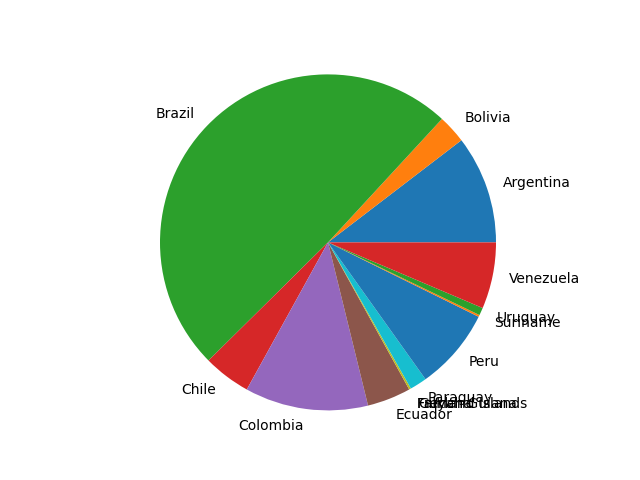
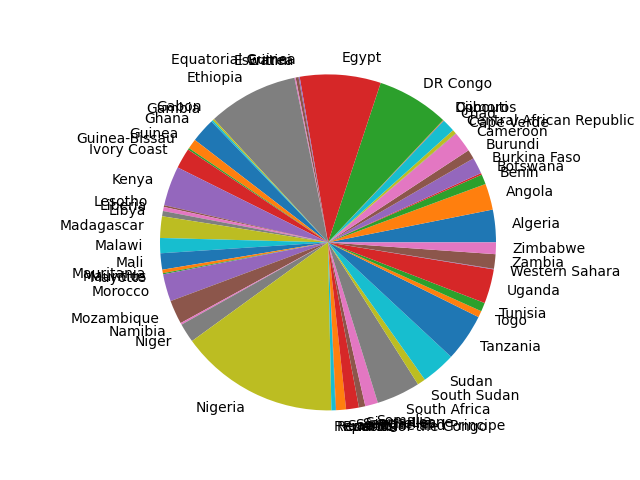
add web-server

Changed region(s): [[0.0938, 0.0938, 1.0, 0.9062]]

diff --git a/web-server/main.py b/web-server/main.py
@@ -1,0 +1,24 @@
+import store
+from fastapi import FastAPI
+from fastapi.responses import HTMLResponse
+
+app = FastAPI()
+
+
[email redacted]("/")
+def get_list():
+    return [1,2,3,4,5]
+
+
[email redacted]('/contact', response_class=HTMLResponse)
+def get_list():
+    return """
+    <h1>soy la pagina de Contact us</h1>
+    <p>Contact us at [email redacted]</p>
+    """
+
+def run():
+    store.get_categories()  
+
+if __name__ == "__main__":
+    run()

diff --git a/app/main.py b/app/main.py
@@ -1,9 +1,11 @@
 import utils
 import read_csv
 import charts
-
+import pandas as pd
 
 def run():
+
+  """"
   data = read_csv.read_csv('data.csv')
   
   data = list(filter(lambda item : item['Continent'] == 'South America',data))
@@ -12,7 +14,17 @@ def run():
   percentages = list(map(lambda x: x['World Population Percentage'], data))
   charts.generate_pie_chart('pie_chart', countries, percentages)
 
-  
+  """""
+  # el codigo anterior es cuando no se utiliza pandas y hay que hacerlo manunalmente, el codigo siguiente es cuando se utiliza pandas y es mas sencillo
+
+  df = pd.read_csv('data.csv')
+  df = df[df['Continent'] == 'Africa']
+  countries = df['Country'].values
+  percentages = df['World Population Percentage'].values
+  charts.generate_pie_chart('pie_chart', countries, percentages)
+
+
+  data = read_csv.read_csv('data.csv')
   country = input('Type Country => ')
   print(country)
 

diff --git a/web-server/store.py b/web-server/store.py
@@ -1,0 +1,12 @@
+from pydoc import text
+
+import requests
+
+def get_categories():
+    r= requests.get('https://api.escuelajs.co/api/v1/categories')
+    print(r.status_code)
+    print(r.text)
+    print(type(r.text))
+    categories = r.json()
+    for category in categories:
+        print(category['name'])